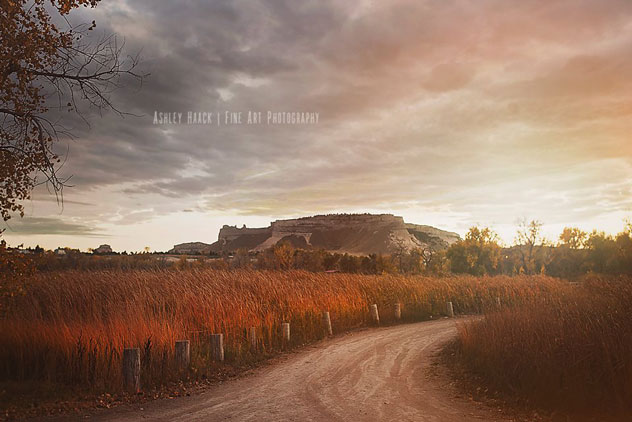
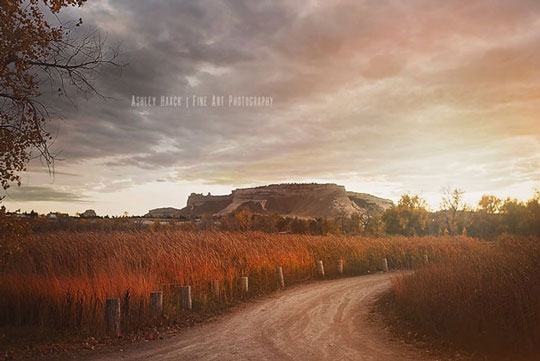
Resized images, added notes to HTML, added some text and CSS adjustments

diff --git a/index.html b/index.html
@@ -14,12 +14,14 @@
   <header>
     <nav class="navbar fixed-top navbar-expand-md">
       <div class="container">
+        <!-- WEBSITE NAME IN NAVIGATION BAR -->
         <a class="navbar-brand" href="#">Ashley Haack Fine Art Photography</a>
         <button class="navbar-toggler btn" type="button" data-toggle="collapse" data-target="#navbarLinks" aria-controls="navbarLinks" aria-expanded="false" aria-label="Toggle navigation">
         &#9662; Menu
       </button>
         <div class="collapse navbar-collapse" id="navbarLinks">
           <ul class="navbar-nav mr-auto">
+            <!-- LINKS IN NAVIGATION BAR -->
             <li class="nav-item">
               <a class="nav-link" href="#gallery">Gallery</a>
             </li>
@@ -35,6 +37,7 @@
           </ul>
         </div>
         <span style="white-space:nowrap;" class="d-none d-md-block">
+          <!-- SOCIAL MEDIA ICONS IN NAVIGATION BAR VIA FONT AWESOME -->
           <a href="https://www.etsy.com/shop/AshesImagery" rel="noopener noreferrer" target="_blank"><i class="fab fa-etsy fa-lg"></i></a>
           <a href="https://www.facebook.com/ashleyhaackphotography" rel="noopener noreferrer" target="_blank"><i class="fab fa-facebook fa-lg"></i></a>
           <a href="https://www.instagram.com/ash.fineart" rel="noopener noreferrer" target="_blank"><i class="fab fa-instagram fa-lg"></i></a>
@@ -45,9 +48,8 @@
     </nav>
     <div id="hero" class="text-center">
       <div class="hero-content">
-        <h1>Ashley Haack Fine Art Photography</h1>
-        <img src="assets/images/logo.png" class="img-fluid">
-        <p>Fine art photography of the great plains, ocean travels, and every nook and cranny in between.</p>
+        <!-- CONTENT OVER HERO IMAGE GOES HERE -- USE ONLY h1, img, p -->
+        <h1>Light chaser + story teller + magic maker + sunset explorer.</h1>
       </div>
     </div>
   </header>
@@ -62,6 +64,7 @@
       <h1>Gallery</h1>
       <div class="row">
         <div class="col-12 col-md-6">
+          <!-- LEFT/FIRST COLUMN OF IMAGE GALLERY -- upload images at 540px wide -->
           <img src="assets/images/14642185_1227739007285066_3569823442659553554_n.jpg" class="img-fluid">
           <img src="assets/images/18199521_1427585920633706_3133375214435701823_n.jpg" class="img-fluid">
           <img src="assets/images/21192739_1553676354691328_6358951689803076634_n.jpg" class="img-fluid">
@@ -73,6 +76,7 @@
           <img src="assets/images/10294458_1056652984393670_500461554908665537_n.jpg" class="img-fluid">
         </div>
         <div class="col-12 col-md-6">
+          <!-- RIGHT/LAST COLUMN OF IMAGE GALLERY -- upload images at 540px wide -->
           <img src="assets/images/28235209_1714811875244441_5688256523037439649_o.jpg" class="img-fluid">
           <img src="assets/images/22382289_1586761578049472_3642468434435491992_o.jpg" class="img-fluid">
           <img src="assets/images/17458211_1381743408551291_4101585578195834359_n.jpg" class="img-fluid">
@@ -88,7 +92,9 @@
     <section id="about">
       <div class="container">
         <h1>Hello!</h1>
+        <!-- THIS PARAGRAPH WILL ALWAYS BE VISIBLE -->
         <p>My name is Ashley Haack, and I'm a fine art photographer located in Scottsbluff, Nebraska. I love sunsets, poetry, and living life out loud! Lorem ipsum dolor amet lomo blog twee, deep v bicycle rights fam chartreuse poke viral iceland. Cardigan disrupt hashtag cold-pressed viral cloud bread pork belly woke celiac cred live-edge 8-bit PBR&B. Bushwick succulents XOXO coloring book lumbersexual, blog stumptown VHS artisan four loko. Literally tilde cloud bread brooklyn dreamcatcher.</p>
+        <!-- THIS PARAGRAPH WILL BE VISIBLE ON MEDIUM/LARGE SCREENS AND HIDDEN ON SMALL SCREENS -->
         <p class="d-none d-sm-block">Man braid freegan squid vaporware selfies viral cold-pressed normcore authentic disrupt hella. Bushwick air plant artisan unicorn beard. Mumblecore echo park artisan cliche health goth ethical deep v cronut sriracha tbh subway tile hell of franzen retro. Occupy artisan sustainable portland meh marfa. Sriracha chia meggings, butcher shoreditch pug literally beard affogato post-ironic irony hexagon man braid. Wolf vaporware edison bulb cronut everyday carry VHS, air plant heirloom glossier poutine franzen distillery.</p>
       </div>
     </section>
@@ -96,16 +102,19 @@
       <h1>Contact me</h1>
       <div class="row">
         <div class="col-12 col-md-6">
-          <p>Sustainable yr crucifix sartorial pour-over copper mug direct trade paleo street art master cleanse. Shabby chic readymade sustainable edison bulb. Polaroid actually lyft deep v, farm-to-table drinking vinegar keffiyeh artisan palo santo messenger bag austin humblebrag irony ugh. Adaptogen flexitarian taxidermy whatever keffiyeh drinking vinegar four dollar toast art party vexillologist wayfarers organic messenger bag gochujang helvetica skateboard. Vape marfa XOXO woke distillery. Snackwave meditation fanny pack, pabst poutine schlitz church-key authentic try-hard VHS la croix truffaut narwhal thundercats tumblr.</p>
-          <p>
-            <a href="https://https://www.etsy.com/shop/AshesImagery" rel="noopener noreferrer" target="_blank"><i class="fab fa-etsy fa-3x mr-2"></i></a>
-            <a href="https://www.facebook.com/ashleyhaackphotography" rel="noopener noreferrer" target="_blank"><i class="fab fa-facebook fa-3x mr-2"></i></a>
-            <a href="https://www.instagram.com/ash.fineart" rel="noopener noreferrer" target="_blank"><i class="fab fa-instagram fa-3x mr-2"></i></a>
-            <a href="https://500px.com/ashleyhaack" rel="noopener noreferrer" target="_blank"><i class="fab fa-500px fa-3x mr-2"></i></a>
-            <a href="https://www.pinterest.com/ashhaack" rel="noopener noreferrer" target="_blank"><i class="fab fa-pinterest fa-3x mr-2"></i></a>
-          </p>
+          <!-- CONTACT INFORMATION -->
+          <p>If you'd like to contact me, you can reach me on any of my social media platforms or through my contact form. Much of my information about scheduling photography sessions can be found on my Facebook page, <a href="https://www.facebook.com/ashleyhaackphotography" rel="noopener noreferrer" target="_blank">Ashley Haack Photography</a>. I also have prints, overlays, and other projects available for purchase <a href="https://https://www.etsy.com/shop/AshesImagery" rel="noopener noreferrer" target="_blank">in my Etsy shop</a>.
+            <p class="mt-4">
+              <!-- SOCIAL MEDIA ICONS AT BOTTOM OF PAGE VIA FONT AWESOME -->
+              <a href="https://https://www.etsy.com/shop/AshesImagery" rel="noopener noreferrer" target="_blank"><i class="fab fa-etsy fa-3x mr-2"></i></a>
+              <a href="https://www.facebook.com/ashleyhaackphotography" rel="noopener noreferrer" target="_blank"><i class="fab fa-facebook fa-3x mr-2"></i></a>
+              <a href="https://www.instagram.com/ash.fineart" rel="noopener noreferrer" target="_blank"><i class="fab fa-instagram fa-3x mr-2"></i></a>
+              <a href="https://500px.com/ashleyhaack" rel="noopener noreferrer" target="_blank"><i class="fab fa-500px fa-3x mr-2"></i></a>
+              <a href="https://www.pinterest.com/ashhaack" rel="noopener noreferrer" target="_blank"><i class="fab fa-pinterest fa-3x"></i></a>
+            </p>
         </div>
         <div class="col-12 col-md-6 mt-4 mb-4 mt-md-0 mb-md-0">
+          <!-- CONTACT FORM VIA FORMSPREE -->
           <form action="https://formspree.io/ashleyhaack@hotmail.com" method="POST" class="needs-validation" novalidate>
             <div class="form-group">
               <label for="name">Name *</label>
@@ -152,6 +161,7 @@
     </section>
   </main>
   <footer class="container">
+    <!-- COPYRIGHT/FOOTER TEXT -->
     <p>&copy;<script type="text/javascript">document.write(new Date().getFullYear());</script> Ashley Haack</p>
   </footer>
   <script src="assets/scripts/jquery-3.3.1.min.js"></script>

diff --git a/assets/styles/main.css b/assets/styles/main.css
@@ -16,11 +16,12 @@ h1, h2, h3, h4, h5, h6 {
 
 a {
   color: #000;
-  text-decoration: underline;
+  text-decoration: none;
 }
 
 a:hover {
   color: #9279ba;
+  text-decoration: none;
 }
 
 header {
@@ -41,10 +42,6 @@ header {
 /*----------------*/
 nav {
   background-color: #fff;
-}
-
-nav a {
-  text-decoration: none;
 }
 
 .navbar-brand {
